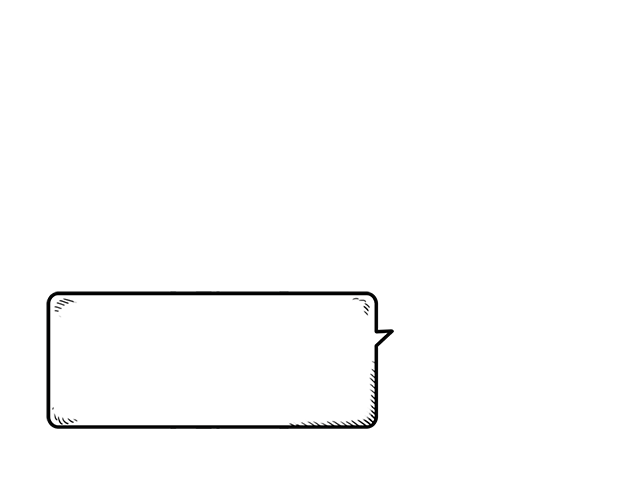
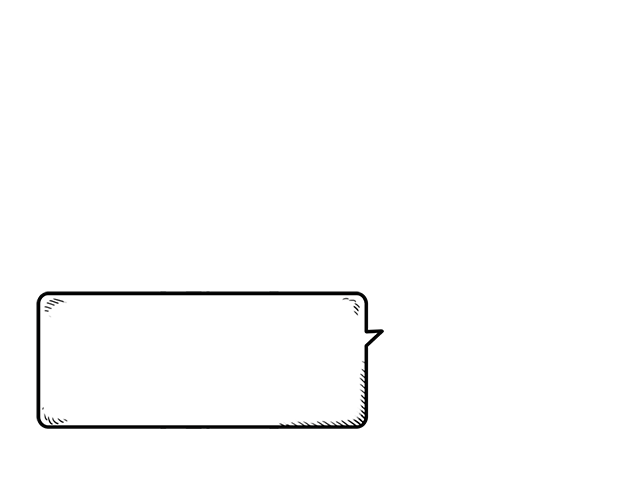
Fading in the text bubble

Changed region(s): [[0.0312, 0.57, 0.125, 0.87], [0.4375, 0.57, 0.625, 0.87]]

diff --git a/Project/Oquonie/Oquonie/xxiivvWorld.m b/Project/Oquonie/Oquonie/xxiivvWorld.m
@@ -148,16 +148,25 @@
 		// Notification
 		
 		NSLog(@"+ NOTIF | Notification | Generate -> %@", [self tileParser:tile :2]);
-		UIImageView *newView = [[UIImageView alloc] initWithFrame:[self tileLocation:4 :[self flattenTileId:tileId :@"x"] :[self flattenTileId:tileId :@"y"]]];
-		newView.tag = 30;
-		newView.image = [UIImage imageNamed:[NSString stringWithFormat:@"fx.notification.1.png"]];
 		
-			UIImageView *letterView = [[UIImageView alloc] initWithFrame:CGRectMake( (newView.frame.size.width/2)-20, 2.5, 40, 40)];
+		CGRect bubbleViewFrame = [self tileLocation:4 :[self flattenTileId:tileId :@"x"] :[self flattenTileId:tileId :@"y"]];
+		UIImageView *bubbleView = [[UIImageView alloc] initWithFrame:CGRectOffset(bubbleViewFrame, 0, 5)];
+		bubbleView.tag = 30;
+		bubbleView.image = [UIImage imageNamed:[NSString stringWithFormat:@"fx.notification.1.png"]];
+		
+			UIImageView *letterView = [[UIImageView alloc] initWithFrame:CGRectMake( (bubbleView.frame.size.width/2)-20, 2.5, 40, 40)];
 			letterView.tag = 30;
 			letterView.image = [UIImage imageNamed:[NSString stringWithFormat:@"letter%@.png",[self util_StorageIdToLetter:hasNotification]]];
-			[newView addSubview:letterView];
+			[bubbleView addSubview:letterView];
 		
-		[self.spritesContainer addSubview:newView];
+		bubbleView.alpha = 0;
+		
+		[UIView animateWithDuration:0.5 animations:^(void){
+			bubbleView.frame = bubbleViewFrame;
+			bubbleView.alpha = 1;
+		} completion:^(BOOL finished){}];
+		
+		[self.spritesContainer addSubview:bubbleView];
 		
 	}
 }

diff --git a/Project/Oquonie/Oquonie/xxiivvViewController.m b/Project/Oquonie/Oquonie/xxiivvViewController.m
@@ -147,13 +147,21 @@
 - (void) moveOrder
 {
 	NSLog(@"•  ROOM | Blockers     | Update   -> z order");
-	
     float subviewPositionOrder = 0;
-	
+	// +Z1 & -Z1
     for (UIView *subview in [self.spritesContainer subviews]) {
-		
         subviewPositionOrder = subview.frame.origin.y+subview.frame.size.height;
-		
+		if(subviewPositionOrder > ((self.floor0e.frame.origin.y+self.floor0e.frame.size.height)-10) ){
+			[self.spritesContainer bringSubviewToFront:subview];
+		}
+		if(subviewPositionOrder < ((self.floor10.frame.origin.y+self.floor10.frame.size.height)+10) ){
+			[self.spritesContainer sendSubviewToBack:subview];
+		}
+	}
+	
+	// +Z2 & -Z2
+    for (UIView *subview in [self.spritesContainer subviews]) {
+        subviewPositionOrder = subview.frame.origin.y+subview.frame.size.height;
 		if(subviewPositionOrder > ((self.flooree.frame.origin.y+self.flooree.frame.size.height)-10) ){
 			[self.spritesContainer bringSubviewToFront:subview];
 		}

diff --git a/Project/Oquonie/Oquonie/eventsNecomedre.m b/Project/Oquonie/Oquonie/eventsNecomedre.m
@@ -121,18 +121,18 @@
 {
 	if([option isEqualToString:@"postNotification"]){
 		if(userSpriteCharId == 1){
-			return 1;
+			return 0;
 		}
 		return 0;
 	}
 	if(userSpriteCharId == 1){
 		[self eventWarp:@"31" :@"0,0"];
 		[self eventDialog:@"UVW":@"10"];
-		[self eventVignette:@"1"];
+		[self eventVignette:@"12"];
 	}
 	if(userSpriteCharId == 6){
 		[self eventTranform:1];
-		[self eventDialog:@"UVW":@"4"];
+		[self eventDialog:@"UVW":@"12"];
 	}
 	
 	return 0;
@@ -167,7 +167,7 @@
 		}
 	}
 	else{
-		[self eventDialog:@"UVW":@"1"];
+		[self eventDialog:@"UVW":@"12"];
 	}
 	return false;
 }

diff --git a/Project/Oquonie/Oquonie/worldNecomedre.m b/Project/Oquonie/Oquonie/worldNecomedre.m
@@ -122,7 +122,7 @@
 	
 	worldNode[30] = @[
 	// Tiles
-	@"21|block|16",@"21|event|tutorialCharacter|4|r",@"21",
+	@"21|block|16",@"21|event|tutorialCharacter|12|r",@"21",
 	@"21",@"21",@"21",
 	@"21",@"21",@"21",
 	// Walls

diff --git a/Project/Oquonie/Oquonie/xxiivvSettings.h b/Project/Oquonie/Oquonie/xxiivvSettings.h
@@ -9,7 +9,7 @@
 #define systemDebug				1
 
 #define userCharacterId			1
-#define userCharacterLocation	1
+#define userCharacterLocation	29
 #define userCharacterX			0
 #define userCharacterY			0
 
